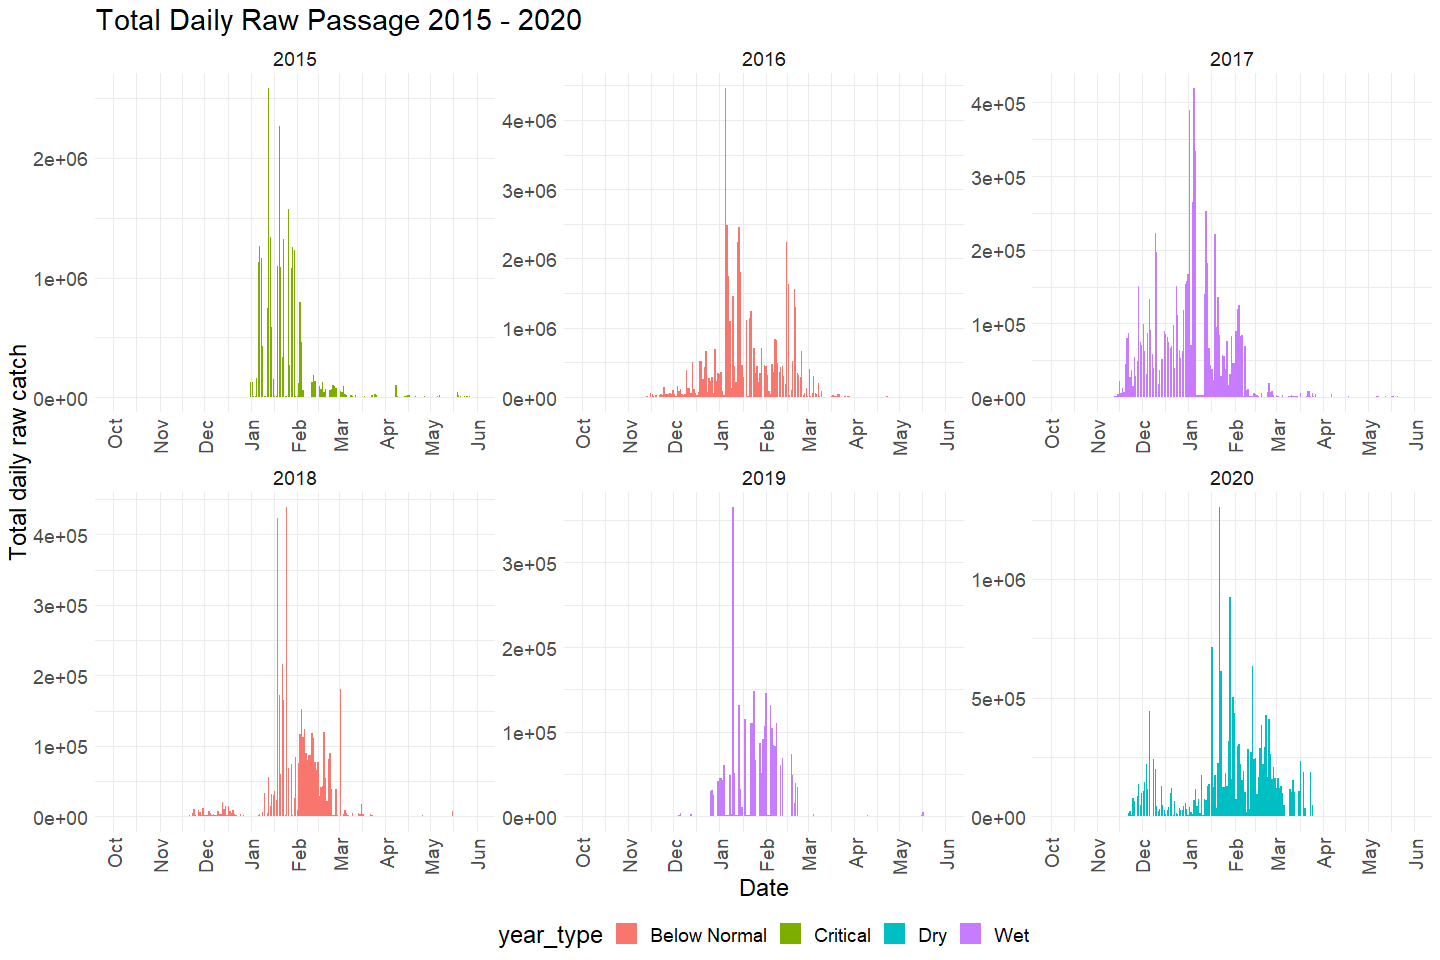
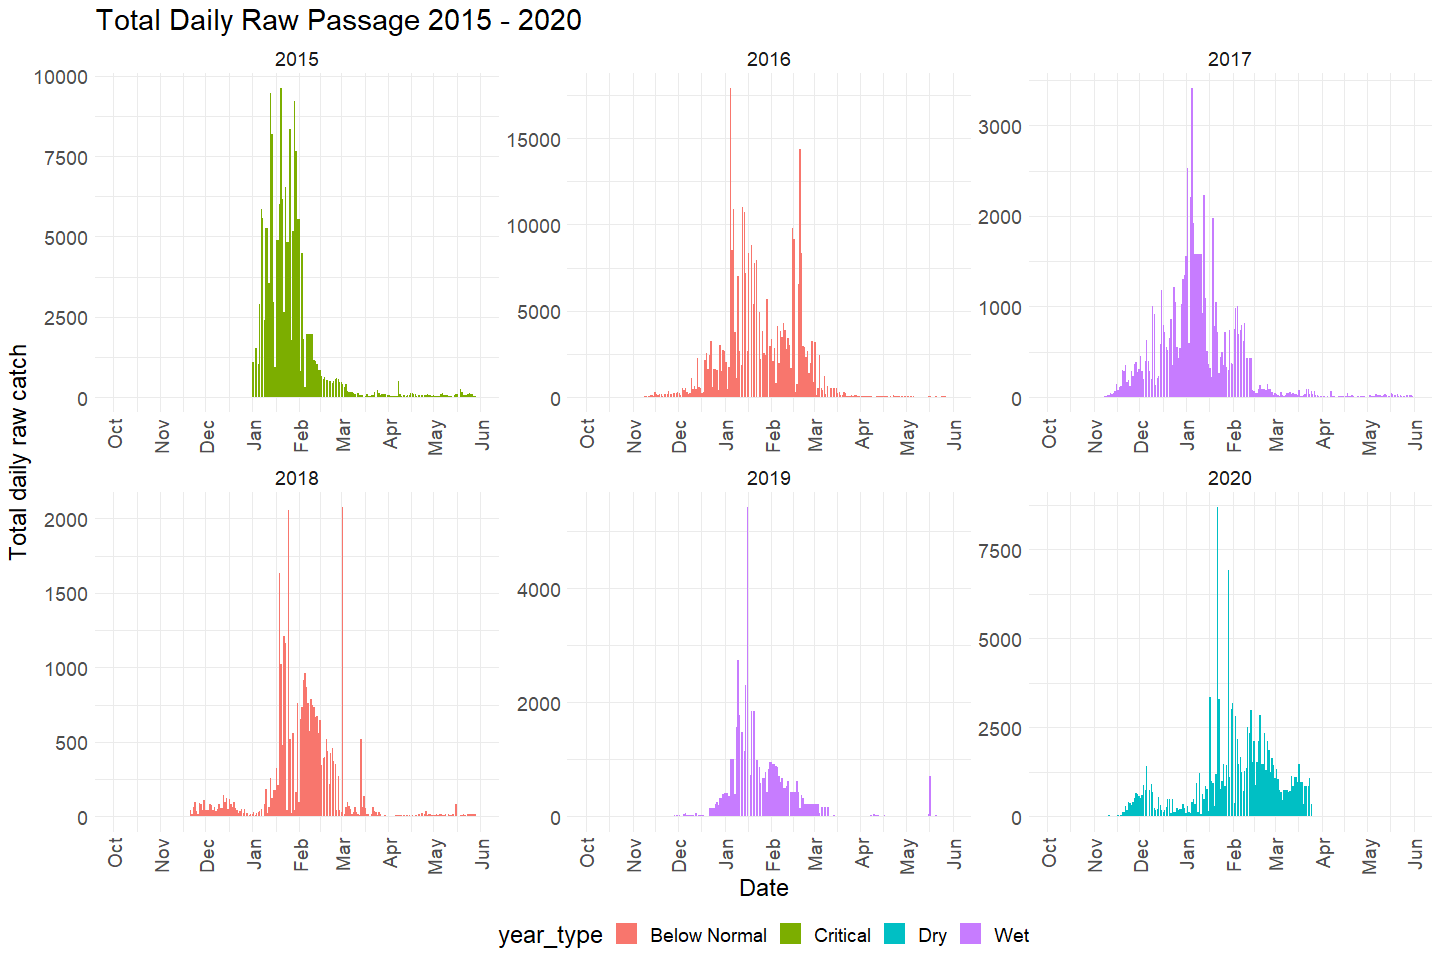
Updates plots for clear creek catch

diff --git a/scripts/rst/clear-creek/clear_creek_rst_catch.md b/scripts/rst/clear-creek/clear_creek_rst_catch.md
@@ -284,6 +284,8 @@ are split into races, zero fork lengths have been assigned
 
 ``` r
 cleaner_rst_count %>% 
+  group_by(date) %>%
+  summarise(total_daily_catch = sum(count)) %>%
   filter(year(date) > 2014, year(date) < 2021) %>%
   mutate(water_year = ifelse(month(date) %in% 10:12, year(date) + 1, year(date))) %>% 
   left_join(sac_indices) %>%
@@ -291,9 +293,6 @@ cleaner_rst_count %>%
          fake_year = if_else(month(date) %in% 10:12, 1900, 1901),
          fake_date = as.Date(paste0(fake_year,"-", month(date), "-", day(date)))) %>%
   filter(water_year < 2021) %>%
-  group_by(date) %>%
-  mutate(total_daily_catch = sum(count)) %>%
-  ungroup() %>%
   ggplot(aes(x = fake_date, y = total_daily_catch, fill = year_type)) + 
   geom_col() + 
   scale_x_date(labels = date_format("%b"), limits = c(as.Date("1900-10-01"), as.Date("1901-06-01")), date_breaks = "1 month") + 
@@ -318,8 +317,8 @@ cleaner_rst_count  %>%
          run %in% c("F", "L", "S", "W")
          ) %>% 
   mutate(year = as.factor(year(date))) %>%
-  group_by(year) %>%
-  mutate(total_yearly_catch = sum(count)) %>%
+  group_by(year, run) %>%
+  summarise(total_yearly_catch = sum(count)) %>%
   ggplot(aes(x = year, y = total_yearly_catch)) + 
   geom_col() + 
   theme_minimal() +
@@ -329,6 +328,8 @@ cleaner_rst_count  %>%
         axis.text.x = element_text(angle = 90, vjust = 0.5, hjust=1)) + 
   facet_wrap(~run, scales = "free_y")
 ```
+
+    ## `summarise()` has grouped output by 'year'. You can override using the `.groups` argument.
 
 ![](clear_creek_rst_catch_files/figure-gfm/unnamed-chunk-11-1.png)<!-- -->
 
